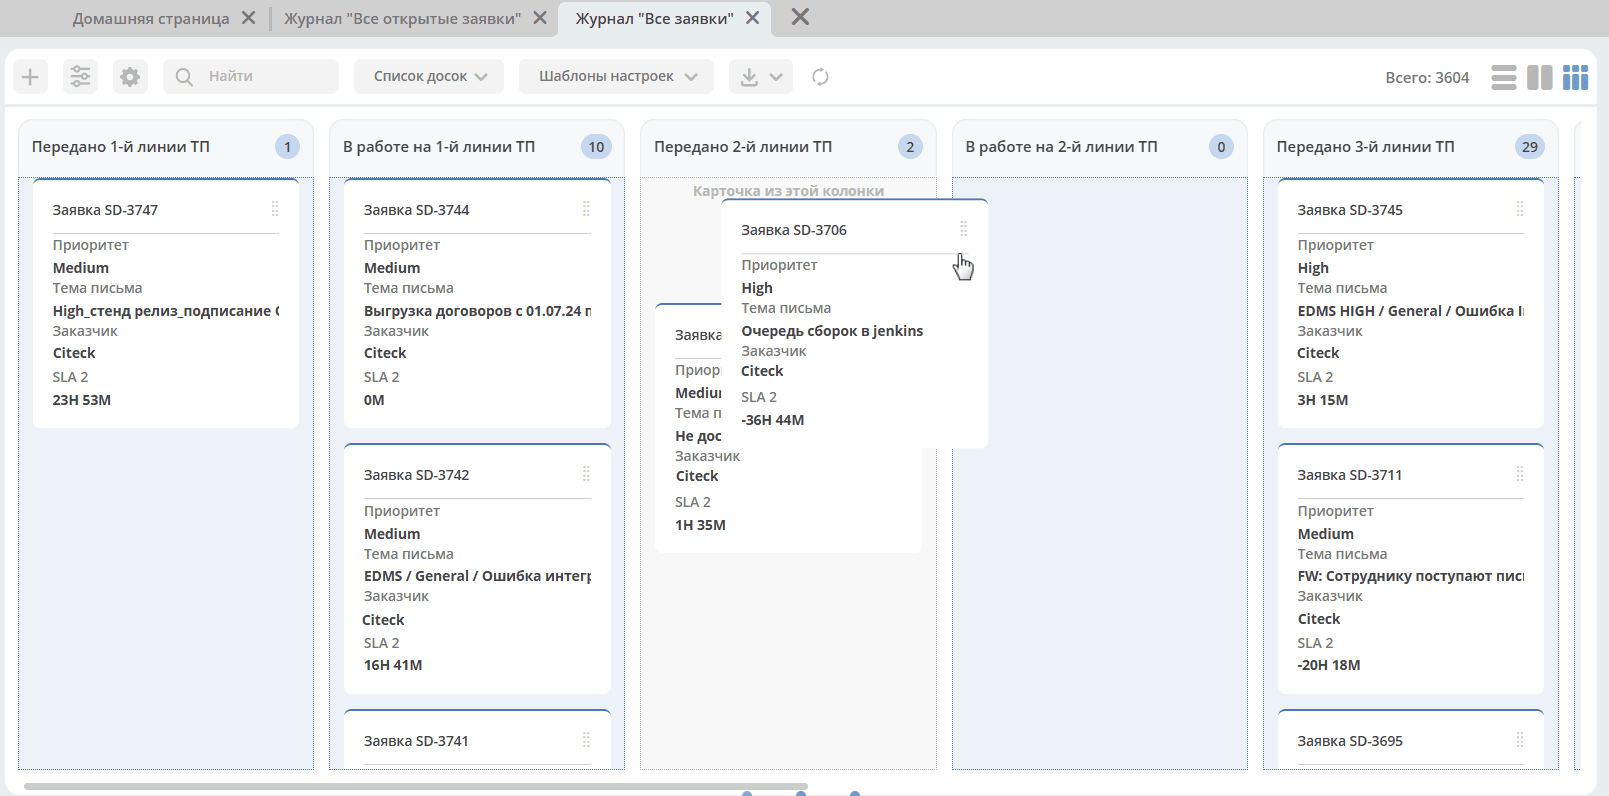
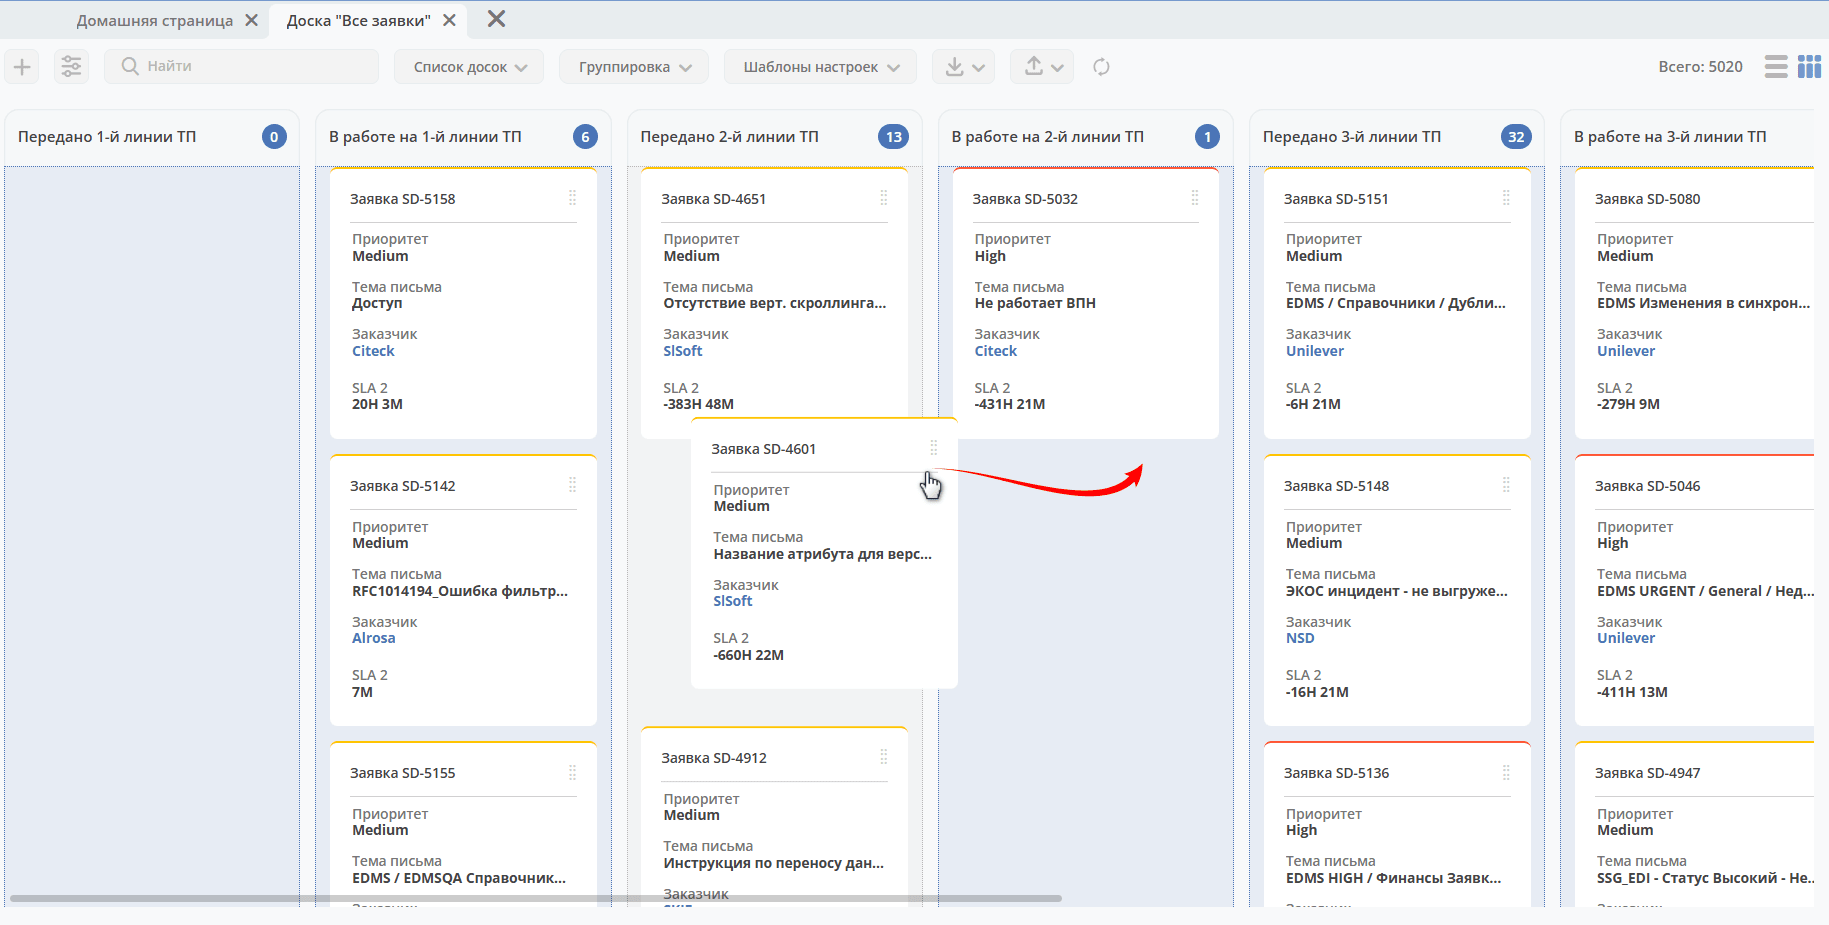
COREDEV-194
COREDEV-194 Add manual drag-and-drop card reordering within kanban board columns,
colored formatter for card color

diff --git a/docs/settings_kb/interface/journals/views/kanban_board.rst b/docs/settings_kb/interface/journals/views/kanban_board.rst
@@ -22,16 +22,22 @@
    :width: 600
    :align: center
 
-Карточки можно переносить из одной колонки в другую.
+Карточки можно перемещать между колонками. Каждая карточка при клике зажимается и перетаскивается (drag-and-drop) в нужную колонку — меняется её статус. 
 
 .. image:: _static/kanban/KB_dnd.png
    :width: 700
    :align: center
 
-Если перенос в соответствии с бизнес-процессом невозможен, указывается ошибка. Например:
+Если перенос в соответствии с бизнес-процессом невозможен, выводится ошибка. Например:
 
 .. image:: _static/kanban/KB11.png
    :width: 300
+   :align: center
+
+Внутри одной колонки карточки часто можно менять местами вертикально — их порядок сверху вниз и задаёт приоритет: чем выше карточка, тем важнее или срочнее задача.
+
+.. image:: _static/kanban/KB_dnd_1.png
+   :width: 700
    :align: center
 
 
@@ -257,7 +263,7 @@
 .. _kanban_column_sum:
 
 Общая сумма по каждой колонке
-~~~~~~~~~~~~~~~~~~~~~~~~~~~~~~~~~~~~~~~~~~~~~~~~~~~~~~
+~~~~~~~~~~~~~~~~~~~~~~~~~~~~~~~
 
 На канбан-доске можно отображать общую сумму по каждой колонке, что актуально для договоров, сделок и в других случаях, связанных с использованием денежных сумм.
 
@@ -277,9 +283,43 @@
 
 Если суммы в карточках внесены в разных валютах, то общая сумма содержит несколько записей с обозначением валют. Число записей при этом равно числу используемых валют в данной колонке в данном рабочем пространстве.
 
+Цвет карточки
+~~~~~~~~~~~~~~~
+
+Цвет карточки на канбан-доске задаётся форматтером :ref:`ColoredFormatter <ColoredFormatter>` (см. :ref:`Форматтеры <formatters>`), настроенным для атрибута, выведенного на форму карточки.
+
+Чтобы задать цвет карточки:
+
+1. Перейдите в настройки журнала, на основе которого построена канбан-доска (раздел администрирования → :guilabel:`Журналы` → нужный журнал → :guilabel:`Редактировать` → :guilabel:`Дополнительно`).
+2. Найдите колонку с атрибутом, значение которого должно определять цвет карточки, и выберите для неё форматтер типа ``colored``.
+3. В конфигурации форматтера сопоставьте значения атрибута с цветами — предопределёнными (``green``, ``yellow``, ``pink``, ``red``) или пользовательскими в формате HEX.
+
+**Например:**
+
+.. code-block:: yaml
+
+  - id: priority
+    name:
+      ru: Приоритет
+      en: Priority
+    type: TEXT
+    editor:
+      type: select
+    formatter:
+      type: colored
+      config:
+        color:
+          low: green
+          medium: yellow
+          high: pink
+          urgent: red
+
+После сохранения настроек атрибут будет отображаться на карточке с цветовым индикатором: небольшим цветным кружком (при ``showPointer: true``) или цветным овальным фоном со скруглением (при ``showPointer: false``, значение по умолчанию).
+
+Остальные параметры конфигурации (``colors``, ``defaultColor``, ``fn``) работают так же, как описано в разделе :ref:`ColoredFormatter <ColoredFormatter>`.
 
 Заполненная конфигурация
-------------------------------------------------
+-------------------------
 
 .. image:: _static/kanban/KB8.png
    :width: 600
@@ -287,7 +327,7 @@
 
 
 Изменение полей формы карточки
-----------------------------------------------------------
+--------------------------------
 
 Кликните на форму:
 

diff --git a/docs/settings_kb/interface/journals.rst b/docs/settings_kb/interface/journals.rst
@@ -34,11 +34,11 @@ Citeck поддерживает несколько режимов предста
 
     journals/journals
     journals/new_journal 
-    journals/configuration
-    journals/journal_settings
-    journals/user_description     
-    journals/features
+    journals/user_description
     journals/content_types   
-    journals/views
+    journals/views    
+    journals/configuration
+    journals/journal_settings      
+    journals/features
 
     
